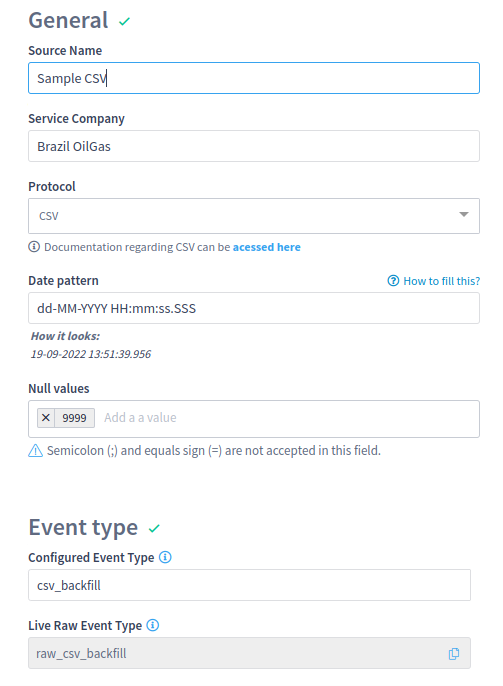
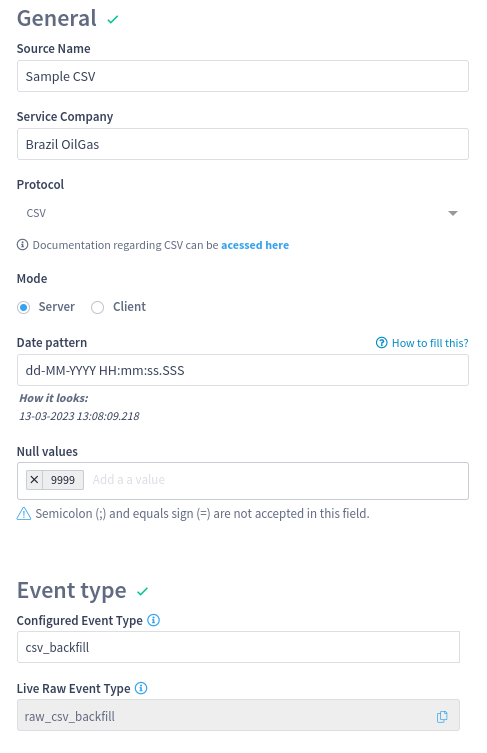
Adding CSV documentation for client mode tcp connection.

diff --git a/collector/protocols/csv.md b/collector/protocols/csv.md
@@ -24,7 +24,7 @@ Each column in the CSV file will be interpreted as a channel value and the first
 
 #### Access endpoint
 
-The CSV source can execute in client or server mode, depending upon the underlay connector configured. Third parties applications may push data into the LiveRig CSV source endpoint.
+The CSV source can execute in client or server mode. Third parties applications may push data into the LiveRig CSV source endpoint.
 
 Starting at LiveRig 4.7.0, the access configuration supports both TCP and Serial ports:
 
@@ -39,6 +39,12 @@ Starting at LiveRig 4.7.0, the access configuration supports both TCP and Serial
 </div>
 
 The TCP connector puts the source in **server mode** and waits for data to be pushed into it. On the other hand, the Serial port connector configures the source as **client mode** and watches the Unix device file to consume the data passing through.
+
+Starting at Liverig 4.11.0, CSV client mode support both TCP and Serial connection protocols, and Server mode supports only TCP connection protocol.
+If server mode is enabled, the Serial Port radio button will be disabled:
+
+
+<figure><img src="../../.gitbook/assets/csv-server-mode-serial-port-disabled.png" alt=""><figcaption><p>Serial port disabled for CSV Server Mode</p></figcaption></figure>
 
 In case, any older LiveRig Collector is used in the edge installation, the selection for Serial ports will be unavailable since only TCP endpoints are allowed up to 4.6 series.
 
